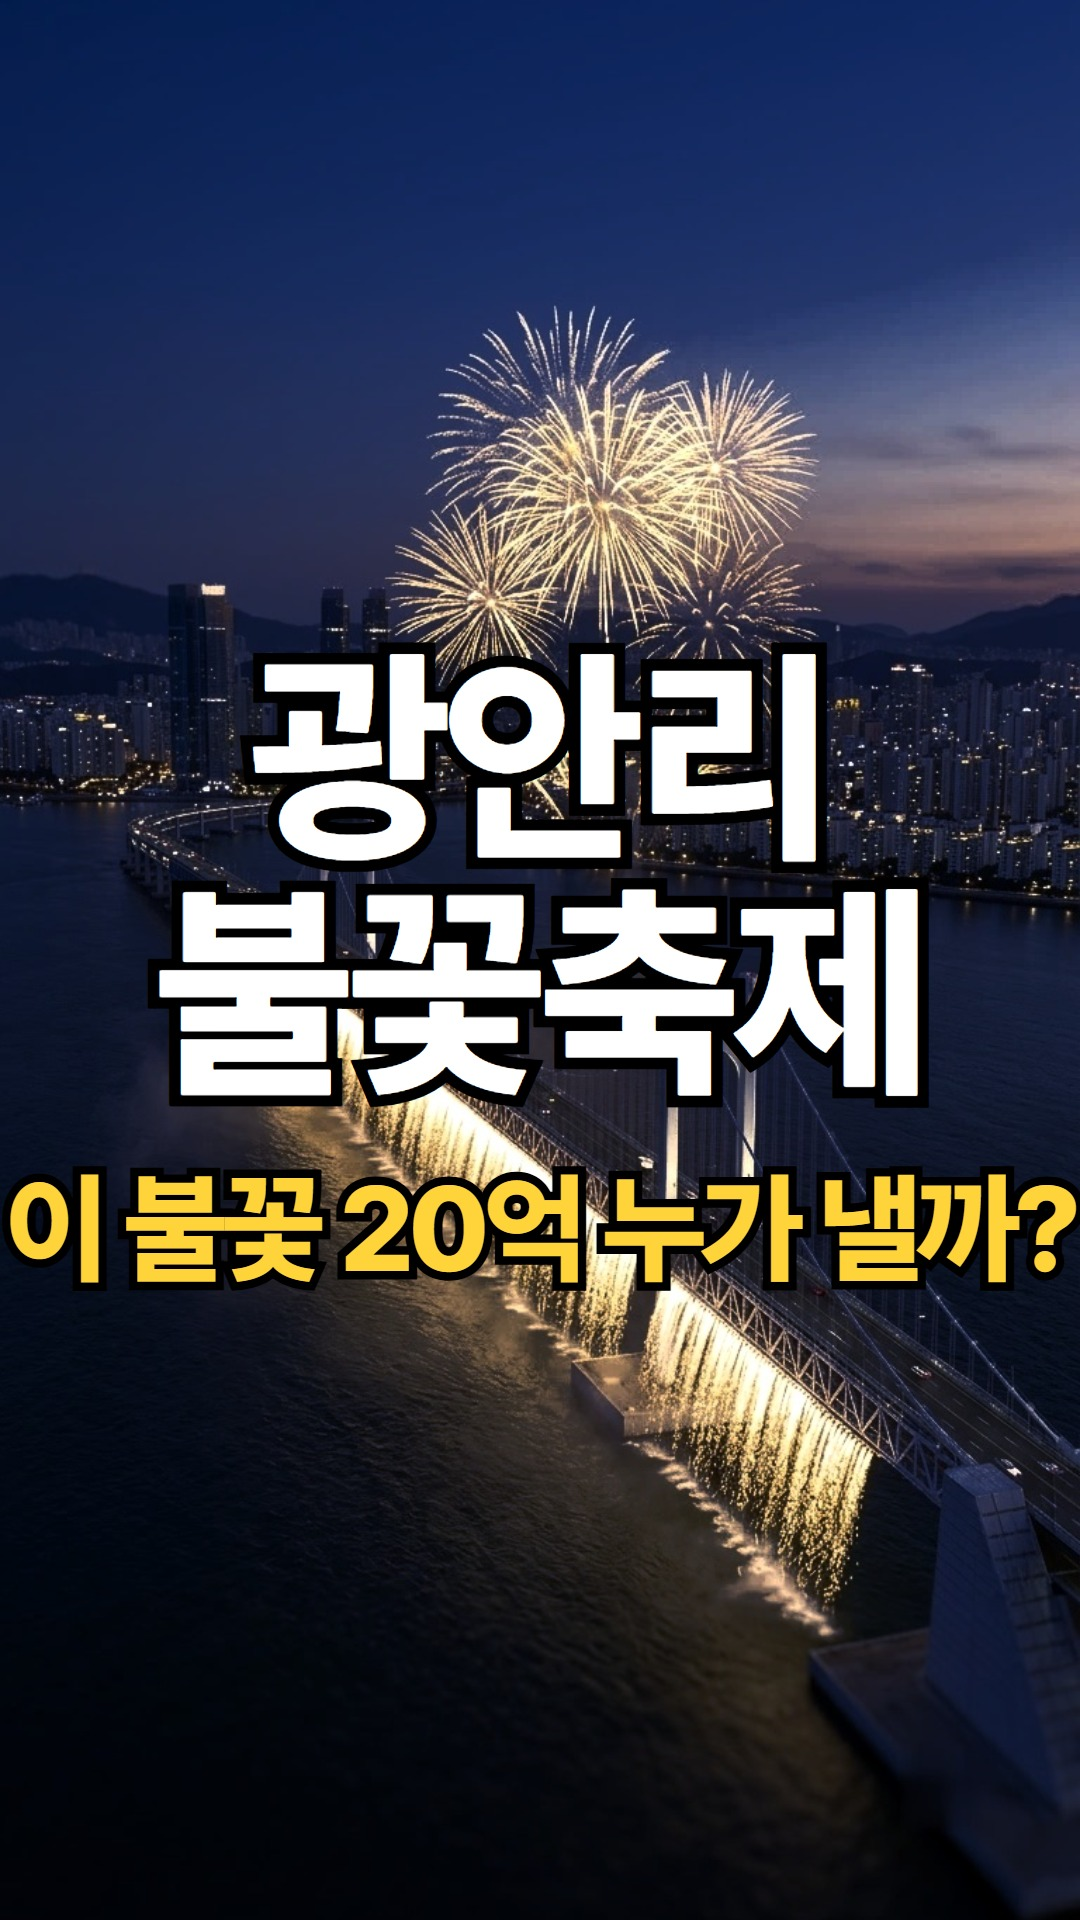
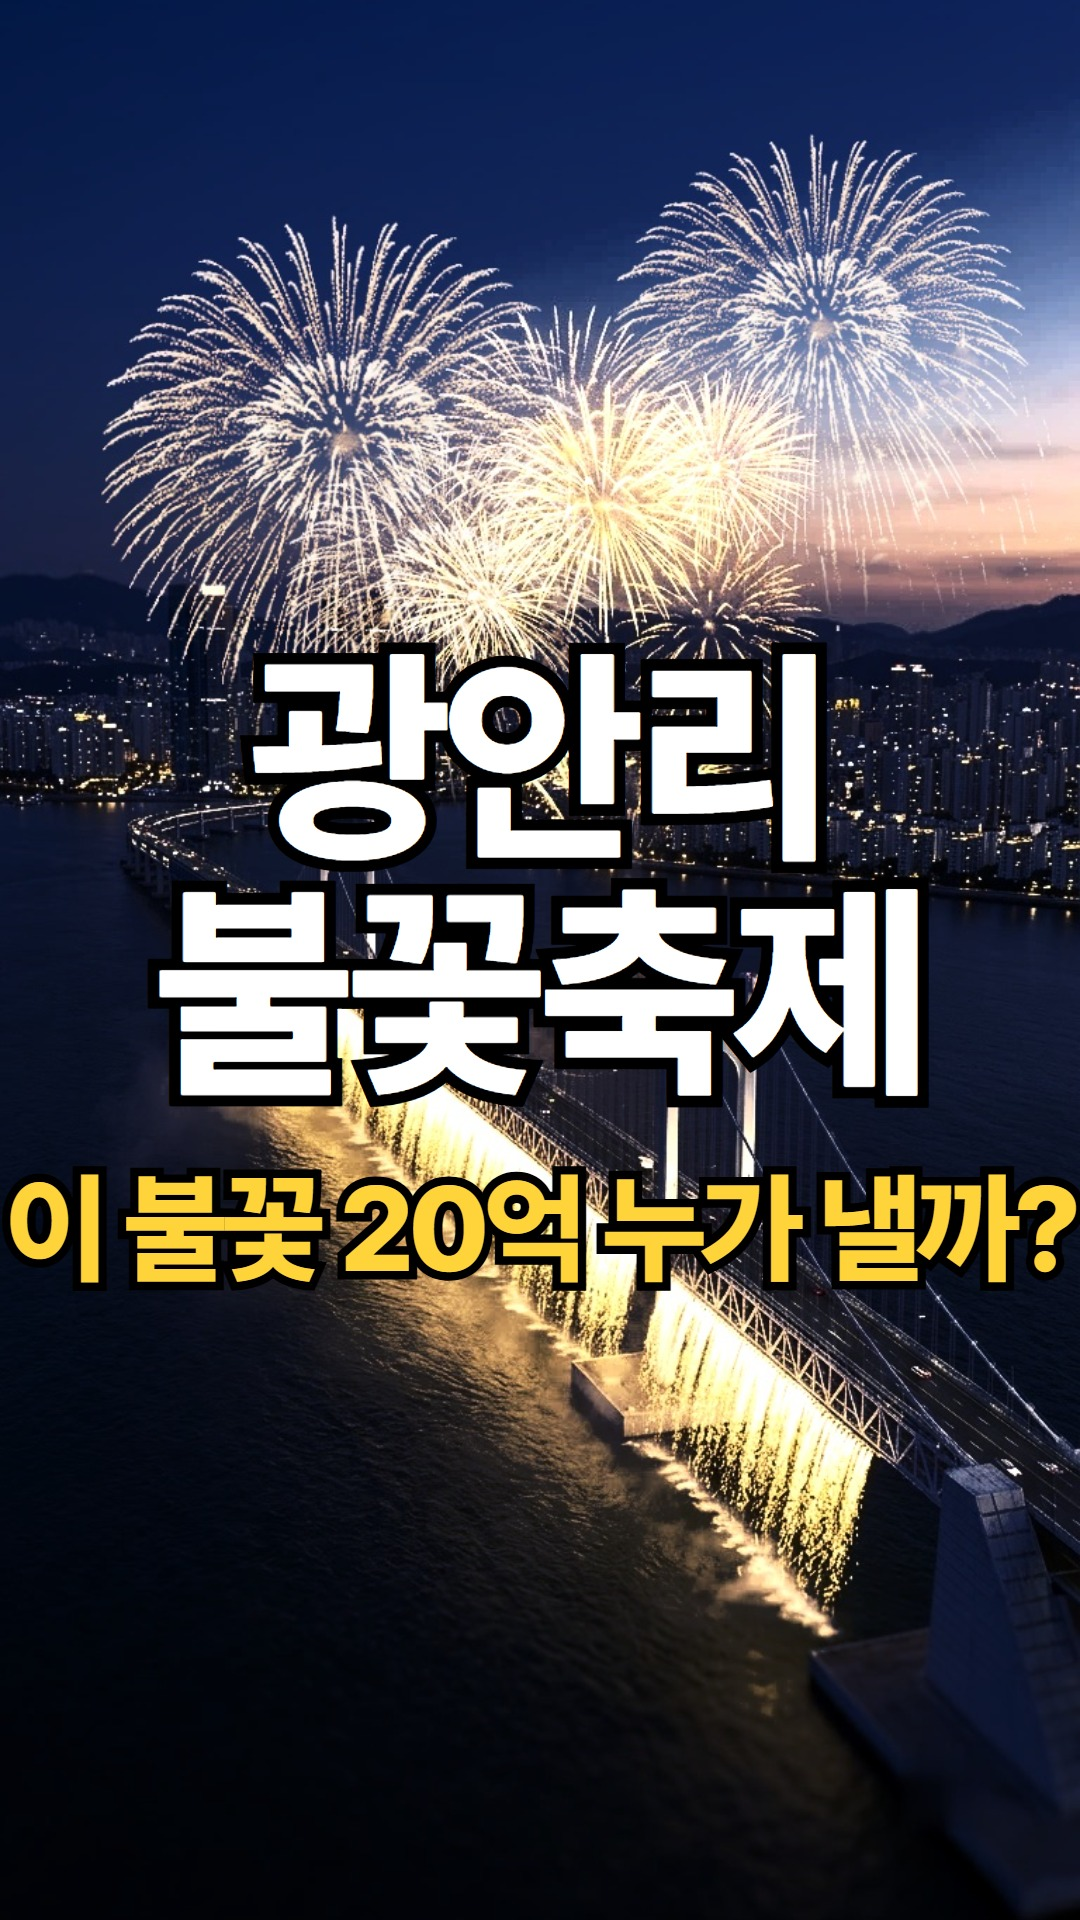
63 썸네일: 밤 배경에 불꽃 3개 더해 풍성하게

diff --git a/shorts/compose/work/63/cover63.py b/shorts/compose/work/63/cover63.py
@@ -78,6 +78,9 @@ V = {
  "S": """<div class="bg" style="left:0;right:0;background-image:url(img/01_night.jpg)"></div>
 <div class="t w" style="top:640px;font-size:230px;-webkit-text-stroke:24px #000;letter-spacing:-6px;line-height:1.02">광안리<br>불꽃축제</div>
 <div class="t y" style="top:1160px;font-size:120px;-webkit-text-stroke:17px #000;line-height:1.15">이 불꽃 20억 누가 낼까?</div>""",
+ "T": """<div class="bg" style="left:0;right:0;background-image:url(img/01_night2.jpg)"></div>
+<div class="t w" style="top:640px;font-size:230px;-webkit-text-stroke:24px #000;letter-spacing:-6px;line-height:1.02">광안리<br>불꽃축제</div>
+<div class="t y" style="top:1160px;font-size:120px;-webkit-text-stroke:17px #000;line-height:1.15">이 불꽃 20억 누가 낼까?</div>""",
  # C: 해변 관객 그림 + 장소 이름
  "C": """<div class="bg" style="left:0;right:0;background-image:url(img/01b.webp)"></div>
 <div class="t w" style="top:520px;font-size:200px;-webkit-text-stroke:6px rgba(40,40,40,.85);text-shadow:0 6px 18px rgba(0,0,0,.5);letter-spacing:-4px;line-height:1.05">광안리<br>불꽃축제</div>""",
